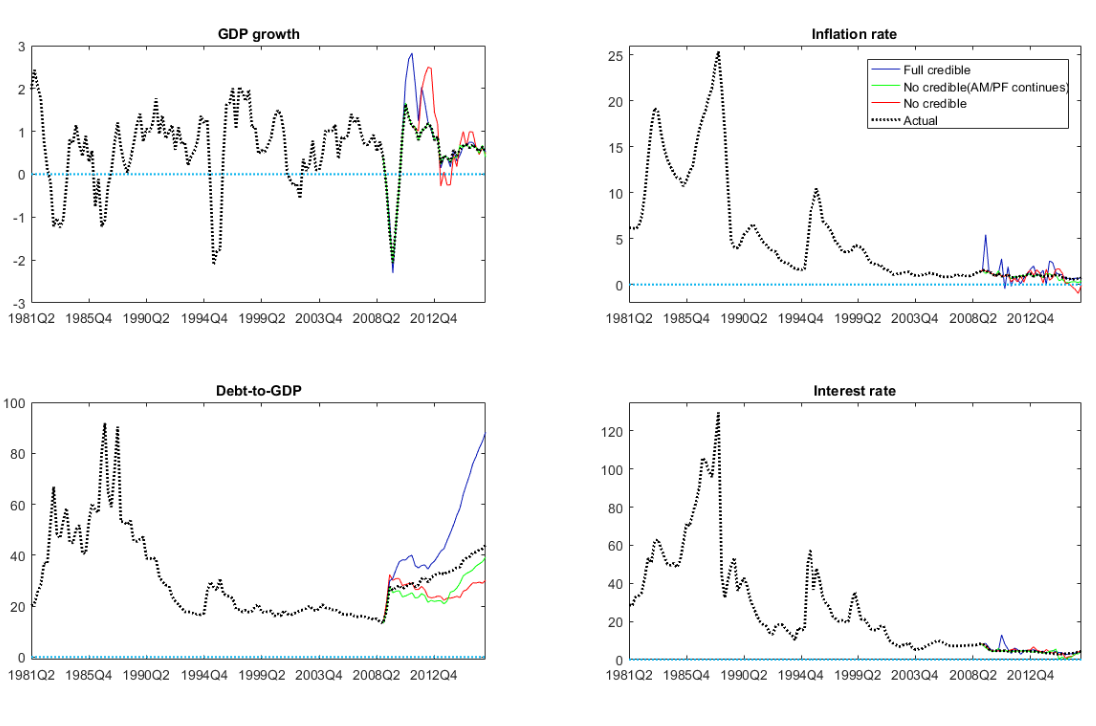
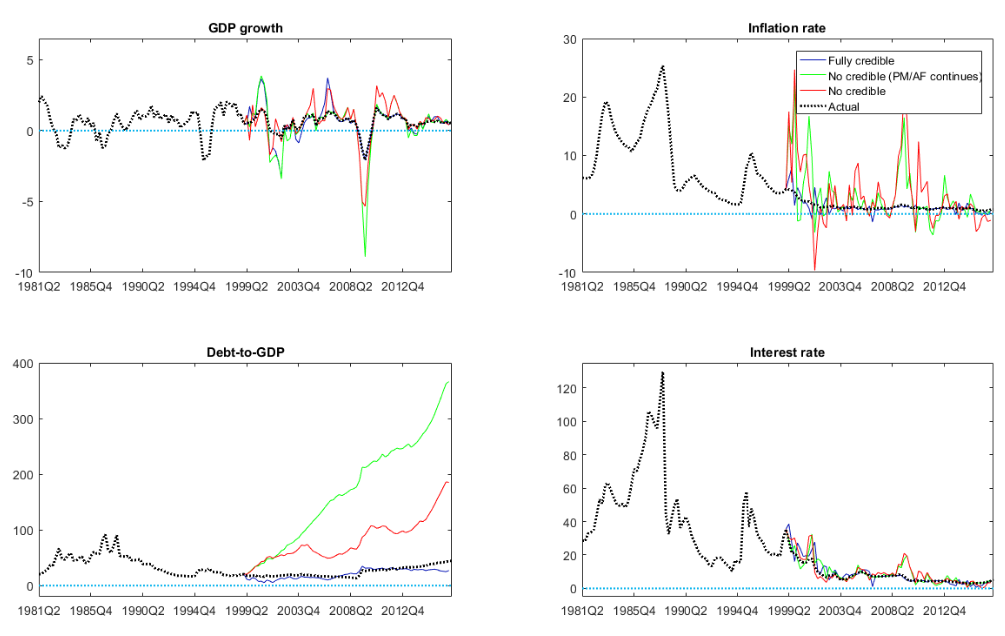
Adds images for com18

diff --git a/src/components/Economics/EconomicsResearch.js b/src/components/Economics/EconomicsResearch.js
@@ -22,6 +22,7 @@ function EconomicsResearch() {
     <ul className="list-unstyled">
       <Media as="li">
       <div>
+      <br />
         <img
           width={120}
           height={190}
@@ -66,6 +67,7 @@ function EconomicsResearch() {
 
       <Media as="li">
         <div>
+        <br />
         <img
           width={120}
           height={190}
@@ -109,44 +111,8 @@ function EconomicsResearch() {
       </Media>
 
       <Media as="li">
-        {/* <div>
-        <img
-          width={120}
-          height={120}
-          className="mr-3"
-          src={}
-          alt="Generic placeholder"
-        />
-        <br />
-        <img
-          width={120}
-          height={120}
-          className="mr-3"
-          src={}
-          alt="Generic placeholder"
-        />
-        </div> */}
-
-        <Media.Body>
-          <br />
-          <a href="https://albertoortiznet.files.wordpress.com/2018/03/monetary_and_fiscal_policies_interactions_in_mexico_1981_-_2016___march022018.pdf">  
-          <h5 class="colored_heading_h5">Monetary and Fiscal Policy Interactions in Mexico, 1981-2016</h5>
-          </a>
-          <p className="p_ind">
-          This paper analyzes the role of fiscal and monetary policies in the determination of inflation and government debt 
-      in Mexico during the 1981-2016 period. A Markov-switching DSGE model estimation allows us to identify five different 
-      periods of fiscal and monetary policy interactions congruent with a historical account of the Mexican monetary and 
-      fiscal policy mix during the past 35 years. Counterfactual exercises show that the low-frequency evolution of inflation 
-      is mainly determined by the monetary policy stance, while the fiscal policy stance mainly determines the low-frequency 
-      evolution of debt. We show that if monetary dominance prevailed throughout the whole period, the average inflation would 
-      have been 13.2% rather than the 20.4% observed. On the other hand, complete fiscal dominance would have implied average 
-      inflation of 42% and an average debt five times larger than the observed.
-          </p>
-        </Media.Body>
-      </Media>
-
-      <Media as="li">
       <div>
+        <br />
         <img
           width={120}
           height={190}
@@ -170,27 +136,65 @@ function EconomicsResearch() {
           </a>
           <p className="p_ind">
           Decreases (increases) in long-term interest rates caused by compressions (dilations) of term premiums could be 
-      financially expansive (contractive) and might require monetary policy restraints (stimulus). This paper uses 
-      measures of the term premium calculated by Adrian et al. (2013) to perform Bayesian estimations of a Markov-switching 
-      vector autoregression (MS-VAR) model as Hubrich and Tetlow (2015), finding evidence of the importance of allowing 
-      for switching parameters (nonlinearities) and switching variance (non-Gaussian) when analyzing macrofinancial linkages 
-      in the United States. Using the specification with the best fit to the data of two Markov states for parameters and 
-      three Markov states for variances, we estimate a Markov-switching dynamic stochastic general equilibrium (MS-DSGE) 
-      macroeconomic model with financial frictions in long-term debt instruments developed by Carlstrom et al. (2017) to 
-      provide evidence on how financial conditions have evolved in the us since 1962 and how the Federal Reserve Bank has 
-      responded to the evolution of term premiums. 
-      <br></br><br></br>
-      Using the estimated model, we perform a counterfactual analysis of the 
-      potential evolution of macroeconomic and financial variables under alternative financial conditions and monetary policy 
-      responses. We analyze six episodes with the presence of high financial frictions and/or medium and high shocks volatility. 
-      In three of them there was a high monetary policy response to financial factors: 1978Q4-1983Q4 which helped to mitigate 
-      inflation at the cost of economic activity, and the 1990Q2-1993Q4 and 2010Q1-2011Q4 episodes in which the high response 
-      served to mitigate economic contractions. Meanwhile, in the three episodes where low response to financial factors is 
-      observed, if the monetary authority had responded more aggressively, from 1971Q1-1978Q3 it could have attained lower 
-      inflation at the cost of lower GDP, from 2000Q4-2004Q4 it could have delayed the GDP contraction to 2002Q3, but this 
-      would have been deeper and inflation larger, and in 2006Q1-2009Q4 it might have precipitated the GDP contraction. 
-      The presence of high financial frictions and high shock volatility makes recessions deeper and recoveries more sluggish 
-      showing the importance of the financial-macroeconomic nexus.
+          financially expansive (contractive) and might require monetary policy restraints (stimulus). This paper uses 
+          measures of the term premium calculated by Adrian et al. (2013) to perform Bayesian estimations of a Markov-switching 
+          vector autoregression (MS-VAR) model as Hubrich and Tetlow (2015), finding evidence of the importance of allowing 
+          for switching parameters (nonlinearities) and switching variance (non-Gaussian) when analyzing macrofinancial linkages 
+          in the United States. Using the specification with the best fit to the data of two Markov states for parameters and 
+          three Markov states for variances, we estimate a Markov-switching dynamic stochastic general equilibrium (MS-DSGE) 
+          macroeconomic model with financial frictions in long-term debt instruments developed by Carlstrom et al. (2017) to 
+          provide evidence on how financial conditions have evolved in the us since 1962 and how the Federal Reserve Bank has 
+          responded to the evolution of term premiums. 
+          <br></br><br></br>
+          Using the estimated model, we perform a counterfactual analysis of the 
+          potential evolution of macroeconomic and financial variables under alternative financial conditions and monetary policy 
+          responses. We analyze six episodes with the presence of high financial frictions and/or medium and high shocks volatility. 
+          In three of them there was a high monetary policy response to financial factors: 1978Q4-1983Q4 which helped to mitigate 
+          inflation at the cost of economic activity, and the 1990Q2-1993Q4 and 2010Q1-2011Q4 episodes in which the high response 
+          served to mitigate economic contractions. Meanwhile, in the three episodes where low response to financial factors is 
+          observed, if the monetary authority had responded more aggressively, from 1971Q1-1978Q3 it could have attained lower 
+          inflation at the cost of lower GDP, from 2000Q4-2004Q4 it could have delayed the GDP contraction to 2002Q3, but this 
+          would have been deeper and inflation larger, and in 2006Q1-2009Q4 it might have precipitated the GDP contraction. 
+          The presence of high financial frictions and high shock volatility makes recessions deeper and recoveries more sluggish 
+          showing the importance of the financial-macroeconomic nexus.
+          </p>
+        </Media.Body>
+      </Media>
+
+      <Media as="li">
+        <div>
+        <br />
+        <img
+          width={140}
+          height={140}
+          className="mr-3"
+          src={com18_img_cfs}
+          alt="Generic placeholder"
+        />
+        {/* <br />
+        <img
+          width={120}
+          height={120}
+          className="mr-3"
+          src={com18_img_cfs}
+          alt="Generic placeholder"
+        /> */}
+        </div>
+
+        <Media.Body>
+          <br />
+          <a href="https://albertoortiznet.files.wordpress.com/2018/03/monetary_and_fiscal_policies_interactions_in_mexico_1981_-_2016___march022018.pdf">  
+          <h5 class="colored_heading_h5">Monetary and Fiscal Policy Interactions in Mexico, 1981-2016</h5>
+          </a>
+          <p className="p_ind">
+          This paper analyzes the role of fiscal and monetary policies in the determination of inflation and government debt 
+          in Mexico during the 1981-2016 period. A Markov-switching DSGE model estimation allows us to identify five different 
+          periods of fiscal and monetary policy interactions congruent with a historical account of the Mexican monetary and 
+          fiscal policy mix during the past 35 years. Counterfactual exercises show that the low-frequency evolution of inflation 
+          is mainly determined by the monetary policy stance, while the fiscal policy stance mainly determines the low-frequency 
+          evolution of debt. We show that if monetary dominance prevailed throughout the whole period, the average inflation would 
+          have been 13.2% rather than the 20.4% observed. On the other hand, complete fiscal dominance would have implied average 
+          inflation of 42% and an average debt five times larger than the observed.
           </p>
         </Media.Body>
       </Media>
